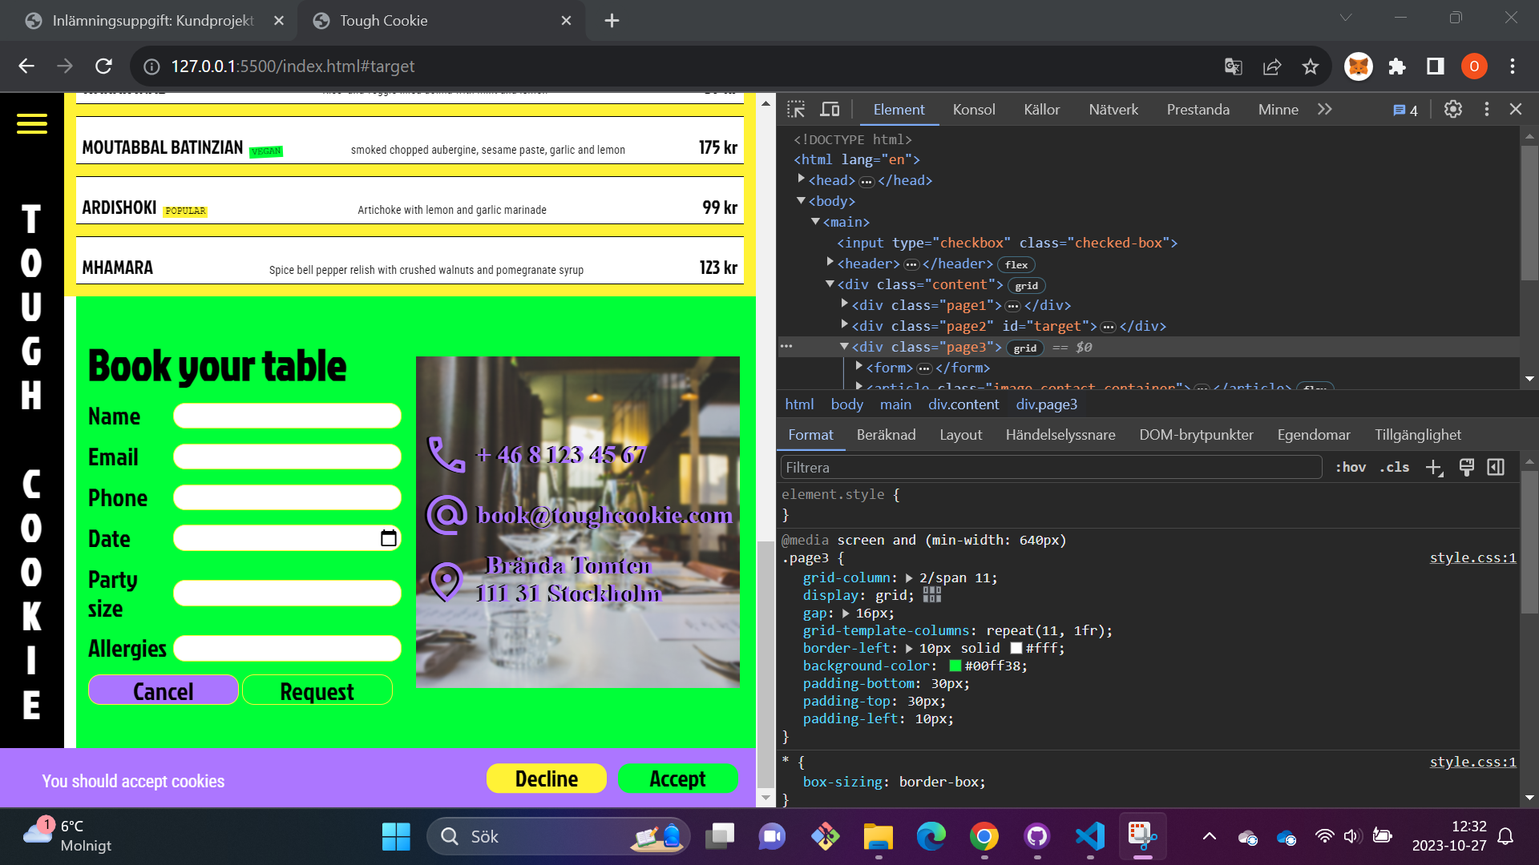
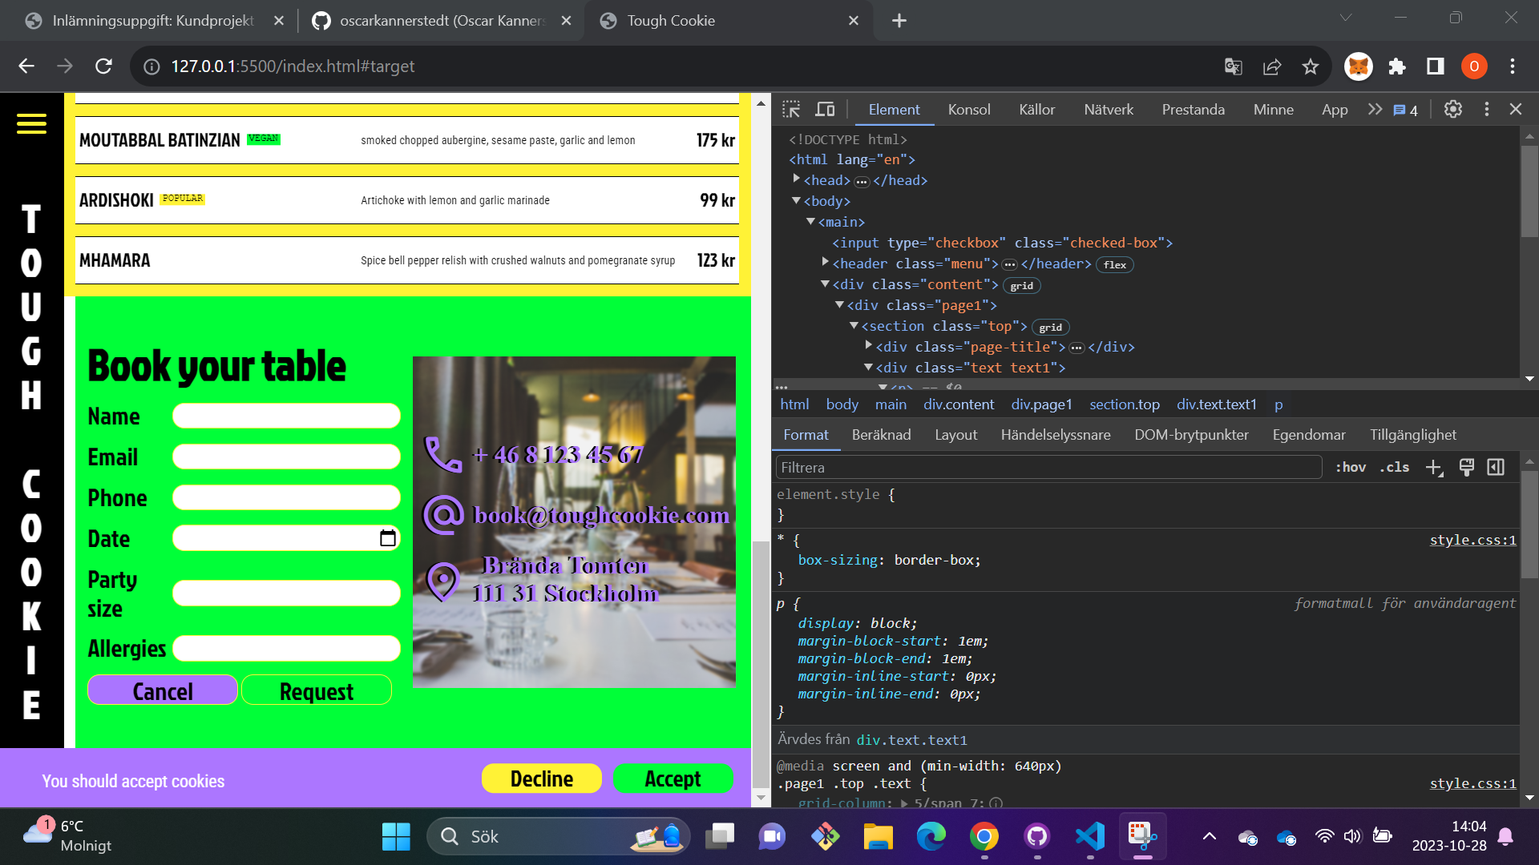
screenshots och validering

diff --git a/css/style.css b/css/style.css
@@ -1,1 +1,1 @@
-/*! normalize.css v8.0.1 | MIT License | github.com/necolas/normalize.css */html{line-height:1.15;-webkit-text-size-adjust:100%}body{margin:0}main{display:block}h1{font-size:2em;margin:.67em 0}hr{box-sizing:content-box;height:0;overflow:visible}pre{font-family:monospace,monospace;font-size:1em}a{background-color:rgba(0,0,0,0)}abbr[title]{border-bottom:none;text-decoration:underline;text-decoration:underline dotted}b,strong{font-weight:bolder}code,kbd,samp{font-family:monospace,monospace;font-size:1em}small{font-size:80%}sub,sup{font-size:75%;line-height:0;position:relative;vertical-align:baseline}sub{bottom:-0.25em}sup{top:-0.5em}img{border-style:none}button,input,optgroup,select,textarea{font-family:inherit;font-size:100%;line-height:1.15;margin:0}button,input{overflow:visible}button,select{text-transform:none}button,[type=button],[type=reset],[type=submit]{-webkit-appearance:button}button::-moz-focus-inner,[type=button]::-moz-focus-inner,[type=reset]::-moz-focus-inner,[type=submit]::-moz-focus-inner{border-style:none;padding:0}button:-moz-focusring,[type=button]:-moz-focusring,[type=reset]:-moz-focusring,[type=submit]:-moz-focusring{outline:1px dotted ButtonText}fieldset{padding:.35em .75em .625em}legend{box-sizing:border-box;color:inherit;display:table;max-width:100%;padding:0;white-space:normal}progress{vertical-align:baseline}textarea{overflow:auto}[type=checkbox],[type=radio]{box-sizing:border-box;padding:0}[type=number]::-webkit-inner-spin-button,[type=number]::-webkit-outer-spin-button{height:auto}[type=search]{-webkit-appearance:textfield;outline-offset:-2px}[type=search]::-webkit-search-decoration{-webkit-appearance:none}::-webkit-file-upload-button{-webkit-appearance:button;font:inherit}details{display:block}summary{display:list-item}template{display:none}[hidden]{display:none}*{box-sizing:border-box}body{background-color:#fff236}html{scroll-behavior:smooth}img{max-width:100%;height:auto}main{padding:14px;width:100%}.checked-box{position:fixed;top:20px;right:20px;z-index:5;width:35px;height:35px;opacity:0}header{height:50px;background-color:#000;color:#fff;display:flex;justify-content:space-between}header h1{text-transform:uppercase;font-family:"jockey one",sans-serif;font-size:2rem;margin:0;margin-left:10px}header nav{position:fixed;top:0;left:0;background-color:#ac76ff;width:100vw;height:100vh;opacity:0;transition:all .3s cubic-bezier(0.075, 0.82, 0.165, 1);visibility:hidden;z-index:4}header nav ul{margin:0;padding:0;list-style:none;display:flex;flex-direction:column;height:100%;justify-content:space-evenly;text-align:center}header button{width:35px;height:35px;background:rgba(0,0,0,0);border:0;position:fixed;right:20px;top:20px;z-index:5;pointer-events:none}header button span{display:block;width:25px;height:3px;background-color:#fff236;border-radius:6px;margin-bottom:4px}input:checked+header nav{visibility:visible;opacity:1}input:checked+header button span{position:absolute;transition:all .3s ease-in-out}input:checked+header button span:nth-child(2){opacity:0}input:checked+header button span:nth-child(1){transform:rotate(45deg)}input:checked+header button span:nth-child(3){transform:rotate(-45deg)}.menu-header{color:#fff;font-size:2rem;text-transform:uppercase;font-family:"jockey one",sans-serif}.page1{min-height:calc(100vh - 64px);font-family:"jockey one",sans-serif;background-color:#000}.page-title{text-transform:uppercase;max-width:100%;overflow:hidden;margin-left:10px}.page-title h2 span:first-of-type{font-size:3.75rem;color:#00ff38}.page-title h2 span:nth-of-type(2){color:#ac76ff;font-size:1.463rem;position:relative;top:-45px;right:70px}.page-title h2 span:nth-of-type(3){color:#fff236;font-size:1.463rem;position:relative;top:13px;right:205px}.text{font-size:1rem;margin-left:10px;margin-right:10px}.text1{color:#00ff38}.text2{background-color:#fff;color:#ac76ff}.text2 a{color:#000;text-decoration:none}.text2 a img{width:16px;height:16px}.image{max-width:300px;height:30vh;max-height:350px;background-image:url(../assets/photos/mae-mu-hugb85v0J04-unsplash.jpg);background-size:cover;background-position:center center;position:relative}.image span{position:absolute;bottom:8px;left:8px;margin:0;color:#fff;height:20px;width:20px}.page2{font-family:"jockey one",sans-serif;min-height:calc(100vh - 14px)}.row{display:flex;height:35vh;max-height:198px;width:100%}.row .column{flex:33.33%;margin:5px;background-size:cover;background-position:center}.row .image1{background-image:url(../assets/photos/edgar-castrejon-1SPu0KT-Ejg-unsplash.jpg)}.row .image2{background-image:url(../assets/photos/kao-rodriguez-IeTzHiuepmU-unsplash.jpg)}.row .image3{background-image:url(../assets/photos/mor-shani-kQloRmVQYIs-unsplash.jpg)}.lunch-menu .menu-item{margin-top:10px;height:40px;background-color:#fff;color:#000;font-size:1rem;border-top:1px solid #000;border-bottom:1px solid #000;position:relative}.lunch-menu .menu-item span{position:absolute;top:50%;transform:translateY(-50%)}.lunch-menu .menu-item span:first-of-type{text-transform:uppercase;left:3px}.lunch-menu .menu-item span:nth-of-type(2){font-family:"roboto condensed",sans-serif;font-size:.6rem;left:43%}.lunch-menu .menu-item span:nth-of-type(3){right:3px}.lunch-menu .menu-item .menu-item-new::after{content:"new!";display:inline-block;padding:0px 2px;font-size:.5rem;text-transform:uppercase;font-family:"Courier New",Courier,monospace;background-color:blue;transform:rotate(3deg);margin-left:5px;top:50%;transform:translateY(-50%)}.lunch-menu .menu-item .menu-item-vegan::after{content:"vegan";display:inline-block;padding:0px 2px;font-size:.5rem;text-transform:uppercase;font-family:"Courier New",Courier,monospace;background-color:#00ff38;transform:rotate(-3deg);margin-left:5px;top:50%;transform:translateY(-50%)}.lunch-menu .menu-item .menu-item-popular::after{content:"Popular";display:inline-block;padding:0px 2px;font-size:.5rem;text-transform:uppercase;font-family:"Courier New",Courier,monospace;background-color:#fff236;margin-left:5px;top:50%;transform:translateY(-50%)}.lunch-menu .menu-item .line-break{right:50px}form{max-width:300px;margin:0 auto;font-family:"jockey one",sans-serif}form h2{margin:0;margin-bottom:10px;margin-top:5px;font-size:2.3rem}form label{display:flex;flex-direction:row;align-items:center;margin-bottom:10px}form label span{flex:1;font-size:1.3rem}form label input{border:1px solid #fff236;border-radius:10px;margin-left:5px;width:190px}form label input[type=date]:required:invalid::-webkit-datetime-edit{color:rgba(0,0,0,0)}form label input[type=date]:focus::-webkit-datetime-edit{color:#000 !important}form input[type=reset],form input[type=submit]{height:25px;width:calc(50% - 5px);border:1px solid #fff236;border-radius:10px;font-size:1.3rem}form input[type=reset]{background-color:#aa75ff}form input[type=submit]{background-color:#00ff38}.image-contact-container{display:flex;justify-content:center;margin-top:20px}.image-contact-container .image-contact{background-image:url(../assets/photos/ronan-kruithof-PCE0T5i4pDI-unsplash.jpg);background-size:cover;background-position:center;margin-bottom:20px;width:300px;height:250px}.image-contact-container .image-contact .image-overlay{height:250px;width:300px;position:absolute;background-color:rgba(255,255,255,.1);backdrop-filter:blur(1px);display:flex;justify-content:center;align-items:center}.image-contact-container .image-contact .image-overlay .contact-container{text-align:center}.image-contact-container .image-contact .image-overlay .contact-container .contact-row{display:flex;align-items:center;margin:10px 0;color:#aa75ff;font-weight:bold;filter:drop-shadow(-2px 0px black)}.image-contact-container .image-contact .image-overlay .contact-container span{font-size:2.5rem;margin-right:5px}.image-contact-container .image-contact .image-overlay .contact-container p{font-size:1.3rem;margin:0}.image-contact-container .image-contact .image-overlay .contact-container .adress{margin-bottom:5px}footer{position:relative;display:flex;bottom:0;width:100%;height:50px;background-color:#ac76ff;padding:5px}footer p{color:#fff;font-family:"roboto condensed",sans-serif;font-size:.8rem;position:absolute;margin-left:30px}footer .button-container{position:absolute;left:auto;right:0;margin-right:10px;top:50%;transform:translateY(-50%)}footer button{width:80px;height:25px;font-family:"jockey one",sans-serif;font-size:1rem;border:1px;border-radius:10px}footer .cookie-button-decline{background-color:#fff236}footer .cookie-button-accept{background-color:#00ff38}@media screen and (min-width: 640px){main{padding:0}.content{display:grid;grid-template-columns:repeat(12, 1fr);gap:10px;padding:0}.checked-box{right:auto;left:8px;top:5px}header{position:fixed;flex-direction:column;height:100vh;justify-content:start;width:8.3vw;z-index:1}header button{position:static;margin-top:10px;margin-left:15%;z-index:5}header h1{max-width:20px;word-break:break-all;text-align:center;margin-top:40px;margin-left:30%}.page1{border-left:10px solid #fff236;border-right:10px solid #fff236;grid-column:2/span 11;min-height:100vh}.page1 .top,.page1 .bottom{display:grid;gap:10px;grid-template-columns:repeat(11, 1fr);flex:1;height:50vh}.page1 .top .page-title{grid-column:span 4}.page1 .top .page-title h2{margin-top:72px;margin-left:18px}.page1 .top .text{grid-column:5/span 7;font-size:1.4rem}.page1 .bottom{background-color:#fff236}.page1 .bottom .image{grid-column:1/span 5;min-height:100%;min-width:100%;max-width:440px;max-height:352px;order:1}.page1 .bottom .text{margin-right:0;margin-left:0}.page1 .bottom .text2{grid-column:6/span 6;order:2;font-size:1.4rem;height:50vh}.page1 .bottom .text2 p{margin-top:0}.page2{border-left:10px solid #fff236;border-right:10px solid #fff236;background-color:#fff236;grid-column:2/span 11}.page2 .row{width:100%}.page2 .row{height:40vh;max-height:300px}.page3{grid-column:2/span 11;display:grid;gap:16px;grid-template-columns:repeat(11, 1fr);border-left:10px solid #fff;background-color:#00ff38;padding-bottom:30px;padding-top:30px;padding-left:10px}.page3 form{grid-column:1/span 4}.page3 .image-contact-container{grid-column:6/span 6}.page3 .image-contact-container .image-contact{width:269px;height:276px;max-width:388px;max-height:582px}.page3 .image-contact-container .image-contact .image-overlay{width:269px;height:276px;max-height:582px;max-width:388px}footer{z-index:1}footer .button-container button{margin-right:5px;font-size:1.2rem;width:100px}footer p{font-size:.9rem}}@media screen and (min-width: 1024px){.checked-box{left:20px;top:19px;cursor:pointer}header button{pointer-events:none;position:fixed;left:15px;margin-left:0;margin-top:0}header button span{display:block;position:relative;width:35px;height:5px}header h1{margin-top:60px;font-size:2.1rem}.checked-box:hover+header button span:nth-child(1){right:-5px}.checked-box:hover+header button span:nth-child(2){left:-5px}.checked-box:hover+header button span:nth-child(3){right:-5px}.page1{border-left:16px solid #fff236;border-right:16px solid #fff236}.page1 .top .page-title h2{margin-top:90px;margin-left:100px}.page1 .top .page-title h2 span:first-of-type{font-size:4rem}.page1 .top .page-title h2 span:nth-of-type(2){font-size:1.57rem;top:-48px;right:76px}.page1 .top .page-title h2 span:nth-of-type(3){font-size:1.55rem;right:218px;top:14px}.page1 .top .text1{font-size:1.7rem;margin-top:20px;margin-right:20px}.page1 .bottom .image{min-width:100%;min-height:100%}.page1 .bottom .image span{transition:bottom .2s cubic-bezier(0.65, 0, 0.35, 1)}.page1 .bottom .image:hover span{bottom:10px}.page1 .bottom .text2{font-size:1.7rem}.page1 .bottom .text2 p{margin-top:15px;margin-right:25px;margin-left:10px}.page2{border-left:16px solid #fff236;border-right:16px solid #fff236}.lunch-menu .menu-item{font-size:1.4rem}.lunch-menu .menu-item span:nth-of-type(1){left:6px}.lunch-menu .menu-item span:nth-of-type(2){font-size:.9rem}.lunch-menu .menu-item span:nth-of-type(3){right:6px}.lunch-menu .menu-item .menu-item-new::after{padding:0px 2px;font-size:.6rem;margin-left:15px}.lunch-menu .menu-item .menu-item-vegan::after{padding:0px 2px;font-size:.6rem;margin-left:15px}.lunch-menu .menu-item .menu-item-popular::after{padding:0px 2px;font-size:.6rem;margin-left:15px}.page3{background-color:#00ff38;border-left:16px solid #fff;padding-left:50px}form{min-width:300px;min-height:350px;margin-top:70px;margin-bottom:80px}form h2{font-size:2.7rem}form label span{font-size:1.5rem}form input[type=submit]{background-color:#fdf236}.image-contact{min-width:350px;min-height:350px;margin-top:30px}.image-contact .image-overlay{min-width:350px;min-height:350px}footer{height:60px}footer .button-container button{width:150px;font-size:1.3rem}footer p{margin-left:100px;font-size:1rem}}
+/*! normalize.css v8.0.1 | MIT License | github.com/necolas/normalize.css */html{line-height:1.15;-webkit-text-size-adjust:100%}body{margin:0}main{display:block}h1{font-size:2em;margin:.67em 0}hr{box-sizing:content-box;height:0;overflow:visible}pre{font-family:monospace,monospace;font-size:1em}a{background-color:rgba(0,0,0,0)}abbr[title]{border-bottom:none;text-decoration:underline;text-decoration:underline dotted}b,strong{font-weight:bolder}code,kbd,samp{font-family:monospace,monospace;font-size:1em}small{font-size:80%}sub,sup{font-size:75%;line-height:0;position:relative;vertical-align:baseline}sub{bottom:-0.25em}sup{top:-0.5em}img{border-style:none}button,input,optgroup,select,textarea{font-family:inherit;font-size:100%;line-height:1.15;margin:0}button,input{overflow:visible}button,select{text-transform:none}button,[type=button],[type=reset],[type=submit]{-webkit-appearance:button}button::-moz-focus-inner,[type=button]::-moz-focus-inner,[type=reset]::-moz-focus-inner,[type=submit]::-moz-focus-inner{border-style:none;padding:0}button:-moz-focusring,[type=button]:-moz-focusring,[type=reset]:-moz-focusring,[type=submit]:-moz-focusring{outline:1px dotted ButtonText}fieldset{padding:.35em .75em .625em}legend{box-sizing:border-box;color:inherit;display:table;max-width:100%;padding:0;white-space:normal}progress{vertical-align:baseline}textarea{overflow:auto}[type=checkbox],[type=radio]{box-sizing:border-box;padding:0}[type=number]::-webkit-inner-spin-button,[type=number]::-webkit-outer-spin-button{height:auto}[type=search]{-webkit-appearance:textfield;outline-offset:-2px}[type=search]::-webkit-search-decoration{-webkit-appearance:none}::-webkit-file-upload-button{-webkit-appearance:button;font:inherit}details{display:block}summary{display:list-item}template{display:none}[hidden]{display:none}*{box-sizing:border-box}body{background-color:#fff236}html{scroll-behavior:smooth}img{max-width:100%;height:auto}main{padding:14px;width:100%}.checked-box{position:fixed;top:20px;right:20px;z-index:5;width:35px;height:35px;opacity:0}header{height:50px;background-color:#000;color:#fff;display:flex;justify-content:space-between}header h1{text-transform:uppercase;font-family:"jockey one",sans-serif;font-size:2rem;margin:0;margin-left:10px}header nav{position:fixed;top:0;left:0;background-color:#ac76ff;width:100vw;height:100vh;opacity:0;transition:all .3s cubic-bezier(0.075, 0.82, 0.165, 1);visibility:hidden;z-index:4}header nav ul{margin:0;padding:0;list-style:none;display:flex;flex-direction:column;height:100%;justify-content:space-evenly;text-align:center}header button{width:35px;height:35px;background:rgba(0,0,0,0);border:0;position:fixed;right:20px;top:20px;z-index:5;pointer-events:none}header button span{display:block;width:25px;height:3px;background-color:#fff236;border-radius:6px;margin-bottom:4px}input:checked+header nav{visibility:visible;opacity:1}input:checked+header button span{position:absolute;transition:all .3s ease-in-out}input:checked+header button span:nth-child(2){opacity:0}input:checked+header button span:nth-child(1){transform:rotate(45deg)}input:checked+header button span:nth-child(3){transform:rotate(-45deg)}.menu-header{color:#fff;font-size:2rem;text-transform:uppercase;font-family:"jockey one",sans-serif}.page1{min-height:calc(100vh - 64px);font-family:"jockey one",sans-serif;background-color:#000}.page-title{text-transform:uppercase;max-width:100%;overflow:hidden;margin-left:10px}.page-title h2 span:first-of-type{font-size:3.75rem;color:#00ff38}.page-title h2 span:nth-of-type(2){color:#ac76ff;font-size:1.463rem;position:relative;top:-45px;right:70px}.page-title h2 span:nth-of-type(3){color:#fff236;font-size:1.463rem;position:relative;top:13px;right:205px}.text{font-size:1rem;margin-left:10px;margin-right:10px}.text1{color:#00ff38}.text2{background-color:#fff;color:#ac76ff}.text2 a{color:#000;text-decoration:none}.text2 a img{width:16px;height:16px}.image{max-width:300px;height:30vh;max-height:350px;background-image:url(../assets/photos/mae-mu-hugb85v0J04-unsplash.jpg);background-size:cover;background-position:center center;position:relative}.image span{position:absolute;bottom:8px;left:8px;margin:0;color:#fff;height:20px;width:20px}.page2{font-family:"jockey one",sans-serif;min-height:calc(100vh - 14px)}.row{display:flex;height:35vh;max-height:198px;width:100%}.row .column{flex:33.33%;margin:5px;background-size:cover;background-position:center}.row .image1{background-image:url(../assets/photos/edgar-castrejon-1SPu0KT-Ejg-unsplash.jpg)}.row .image2{background-image:url(../assets/photos/kao-rodriguez-IeTzHiuepmU-unsplash.jpg)}.row .image3{background-image:url(../assets/photos/mor-shani-kQloRmVQYIs-unsplash.jpg)}.lunch-menu .menu-item{margin-top:10px;height:40px;background-color:#fff;color:#000;font-size:1rem;border-top:1px solid #000;border-bottom:1px solid #000;position:relative}.lunch-menu .menu-item span{position:absolute;top:50%;transform:translateY(-50%)}.lunch-menu .menu-item span:first-of-type{text-transform:uppercase;left:3px}.lunch-menu .menu-item span:nth-of-type(2){font-family:"roboto condensed",sans-serif;font-size:.6rem;left:43%}.lunch-menu .menu-item span:nth-of-type(3){right:3px}.lunch-menu .menu-item .menu-item-new::after{content:"new!";display:inline-block;padding:0px 2px;font-size:.5rem;text-transform:uppercase;font-family:"Courier New",Courier,monospace;background-color:blue;transform:rotate(3deg);margin-left:5px;top:50%;transform:translateY(-50%)}.lunch-menu .menu-item .menu-item-vegan::after{content:"vegan";display:inline-block;padding:0px 2px;font-size:.5rem;text-transform:uppercase;font-family:"Courier New",Courier,monospace;background-color:#00ff38;transform:rotate(-3deg);margin-left:5px;top:50%;transform:translateY(-50%)}.lunch-menu .menu-item .menu-item-popular::after{content:"Popular";display:inline-block;padding:0px 2px;font-size:.5rem;text-transform:uppercase;font-family:"Courier New",Courier,monospace;background-color:#fff236;margin-left:5px;top:50%;transform:translateY(-50%)}.lunch-menu .menu-item .line-break{right:50px}form{max-width:300px;margin:0 auto;font-family:"jockey one",sans-serif}form h2{margin:0;margin-bottom:10px;margin-top:5px;font-size:2.3rem}form label{display:flex;flex-direction:row;align-items:center;margin-bottom:10px}form label span{flex:1;font-size:1.3rem}form label input{border:1px solid #fff236;border-radius:10px;margin-left:5px;width:190px}form label input[type=date]:required:invalid::-webkit-datetime-edit{color:rgba(0,0,0,0)}form label input[type=date]:focus::-webkit-datetime-edit{color:#000 !important}form input[type=reset],form input[type=submit]{height:25px;width:calc(50% - 5px);border:1px solid #fff236;border-radius:10px;font-size:1.3rem}form input[type=reset]{background-color:#aa75ff}form input[type=submit]{background-color:#00ff38}.image-contact-container{display:flex;justify-content:center;margin-top:20px}.image-contact-container .image-contact{background-image:url(../assets/photos/ronan-kruithof-PCE0T5i4pDI-unsplash.jpg);background-size:cover;background-position:center;margin-bottom:20px;width:300px;height:250px}.image-contact-container .image-contact .image-overlay{height:250px;width:300px;position:absolute;background-color:rgba(255,255,255,.1);backdrop-filter:blur(1px);display:flex;justify-content:center;align-items:center}.image-contact-container .image-contact .image-overlay .contact-container{text-align:center}.image-contact-container .image-contact .image-overlay .contact-container .contact-row{display:flex;align-items:center;margin:10px 0;color:#aa75ff;font-weight:bold;filter:drop-shadow(-2px 0px black)}.image-contact-container .image-contact .image-overlay .contact-container span{font-size:2.5rem;margin-right:5px}.image-contact-container .image-contact .image-overlay .contact-container p{font-size:1.3rem;margin:0}.image-contact-container .image-contact .image-overlay .contact-container .adress{margin-bottom:5px}footer{position:relative;display:flex;bottom:0;width:100%;height:50px;background-color:#ac76ff;padding:5px}footer p{color:#fff;font-family:"roboto condensed",sans-serif;font-size:.8rem;position:absolute;margin-left:30px}footer .button-container{position:absolute;left:auto;right:0;margin-right:10px;top:50%;transform:translateY(-50%)}footer button{width:80px;height:25px;font-family:"jockey one",sans-serif;font-size:1rem;border:1px;border-radius:10px}footer .cookie-button-decline{background-color:#fff236}footer .cookie-button-accept{background-color:#00ff38}@media screen and (min-width: 640px){main{padding:0}.content{display:grid;grid-template-columns:repeat(12, 1fr);gap:10px;padding:0}.checked-box{right:auto;left:8px;top:5px}header{position:fixed;flex-direction:column;height:100vh;justify-content:start;width:8.3vw;z-index:1}header button{position:static;margin-top:10px;margin-left:15%;z-index:5}header h1{max-width:20px;word-break:break-all;text-align:center;margin-top:40px;margin-left:30%}.page1{border-left:10px solid #fff236;border-right:10px solid #fff236;grid-column:2/span 11;min-height:100vh}.page1 .top,.page1 .bottom{display:grid;gap:10px;grid-template-columns:repeat(11, 1fr);flex:1;height:50vh}.page1 .top .page-title{grid-column:span 4}.page1 .top .page-title h2{margin-top:72px;margin-left:18px}.page1 .top .text{grid-column:5/span 7;font-size:1.4rem}.page1 .bottom{background-color:#fff236}.page1 .bottom .image{grid-column:1/span 5;min-height:100%;min-width:100%;max-width:440px;max-height:352px;order:1}.page1 .bottom .text{margin-right:0;margin-left:0}.page1 .bottom .text2{grid-column:6/span 6;order:2;font-size:1.4rem;height:50vh}.page1 .bottom .text2 p{margin-top:0}.page2{border-left:10px solid #fff236;border-right:10px solid #fff236;background-color:#fff236;grid-column:2/span 11}.page2 .row{width:100%}.page2 .row{height:40vh;max-height:300px}.page3{grid-column:2/span 11;display:grid;gap:16px;grid-template-columns:repeat(11, 1fr);border-left:10px solid #fff;background-color:#00ff38;padding-bottom:30px;padding-top:30px;padding-left:10px}.page3 form{grid-column:1/span 4}.page3 .image-contact-container{grid-column:6/span 6}.page3 .image-contact-container .image-contact{width:269px;height:276px;max-width:388px;max-height:582px}.page3 .image-contact-container .image-contact .image-overlay{width:269px;height:276px;max-height:582px;max-width:388px}footer{z-index:1}footer .button-container button{margin-right:5px;font-size:1.2rem;width:100px}footer p{font-size:.9rem}}@media screen and (min-width: 1024px){.checked-box{left:20px;top:19px;cursor:pointer}header button{pointer-events:none;position:fixed;left:15px;margin-left:0;margin-top:0}header button span{display:block;position:relative;width:35px;height:5px}header h1{margin-top:60px;font-size:2.1rem}.checked-box:hover+header button span:nth-child(1){right:-5px}.checked-box:hover+header button span:nth-child(2){left:-5px}.checked-box:hover+header button span:nth-child(3){right:-5px}.page1{border-left:16px solid #fff236;border-right:16px solid #fff236}.page1 .top .page-title h2{margin-top:90px;margin-left:100px}.page1 .top .page-title h2 span:first-of-type{font-size:4rem}.page1 .top .page-title h2 span:nth-of-type(2){font-size:1.57rem;top:-48px;right:76px}.page1 .top .page-title h2 span:nth-of-type(3){font-size:1.55rem;right:218px;top:14px}.page1 .top .text1{font-size:1.7rem;margin-top:20px;margin-right:20px}.page1 .bottom .image{min-width:100%;min-height:100%}.page1 .bottom .image span{transition:bottom .2s cubic-bezier(0.65, 0, 0.35, 1)}.page1 .bottom .image:hover span{bottom:10px}.page1 .bottom .text2{font-size:1.7rem}.page1 .bottom .text2 p{margin-top:15px;margin-right:25px;margin-left:10px}.page2{border-left:16px solid #fff236;border-right:16px solid #fff236}.lunch-menu .menu-item{font-size:1.4rem;border-top:1.5px solid #000;border-bottom:1.5px solid #000}.lunch-menu .menu-item span:nth-of-type(1){left:6px}.lunch-menu .menu-item span:nth-of-type(2){font-size:.9rem}.lunch-menu .menu-item span:nth-of-type(3){right:6px}.lunch-menu .menu-item .menu-item-new::after{padding:0px 2px;font-size:.6rem;margin-left:15px}.lunch-menu .menu-item .menu-item-vegan::after{padding:0px 2px;font-size:.6rem;margin-left:15px}.lunch-menu .menu-item .menu-item-popular::after{padding:0px 2px;font-size:.6rem;margin-left:15px}.page3{background-color:#00ff38;border-left:16px solid #fff;padding-left:50px}form{min-width:300px;min-height:350px;margin-top:70px;margin-bottom:80px}form h2{font-size:2.7rem}form label span{font-size:1.5rem}form input[type=submit]{background-color:#fdf236}.image-contact{min-width:350px;min-height:350px;margin-top:30px}.image-contact .image-overlay{min-width:350px;min-height:350px}footer{height:60px}footer .button-container button{width:150px;font-size:1.3rem}footer p{margin-left:100px;font-size:1rem}}

diff --git a/index.html b/index.html
@@ -31,7 +31,7 @@
           <li class="menu-header">Book table</li>
       </ul>
       </nav>
-      <h1>Tough <spa>&nbsp;</spa> Cookie</h1>
+      <h1>Tough <span>&nbsp;</span> Cookie</h1>
     </header> 
     
     <div class="content">

diff --git a/css/_desktop.scss b/css/_desktop.scss
@@ -119,6 +119,8 @@ header {
 .lunch-menu {
     .menu-item {
         font-size: 1.4rem;
+        border-top: 1.5px solid black;
+        border-bottom: 1.5px solid black;
 
         span:nth-of-type(1) {
             left: 6px;
